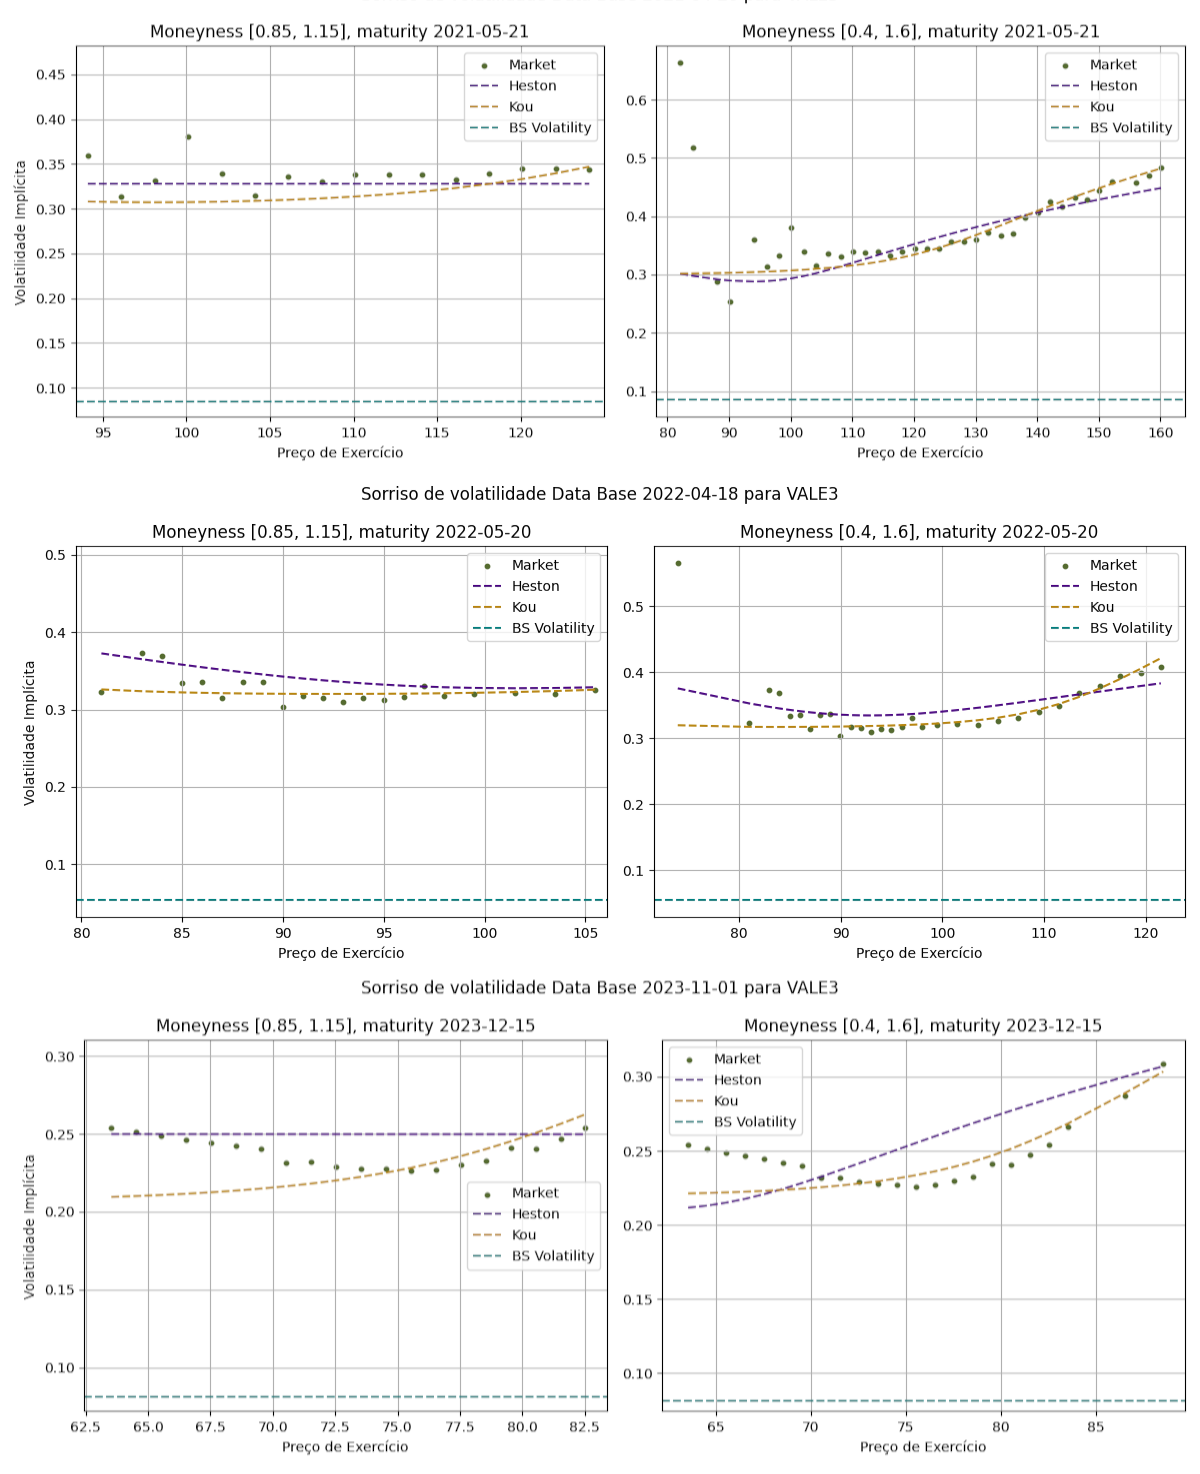
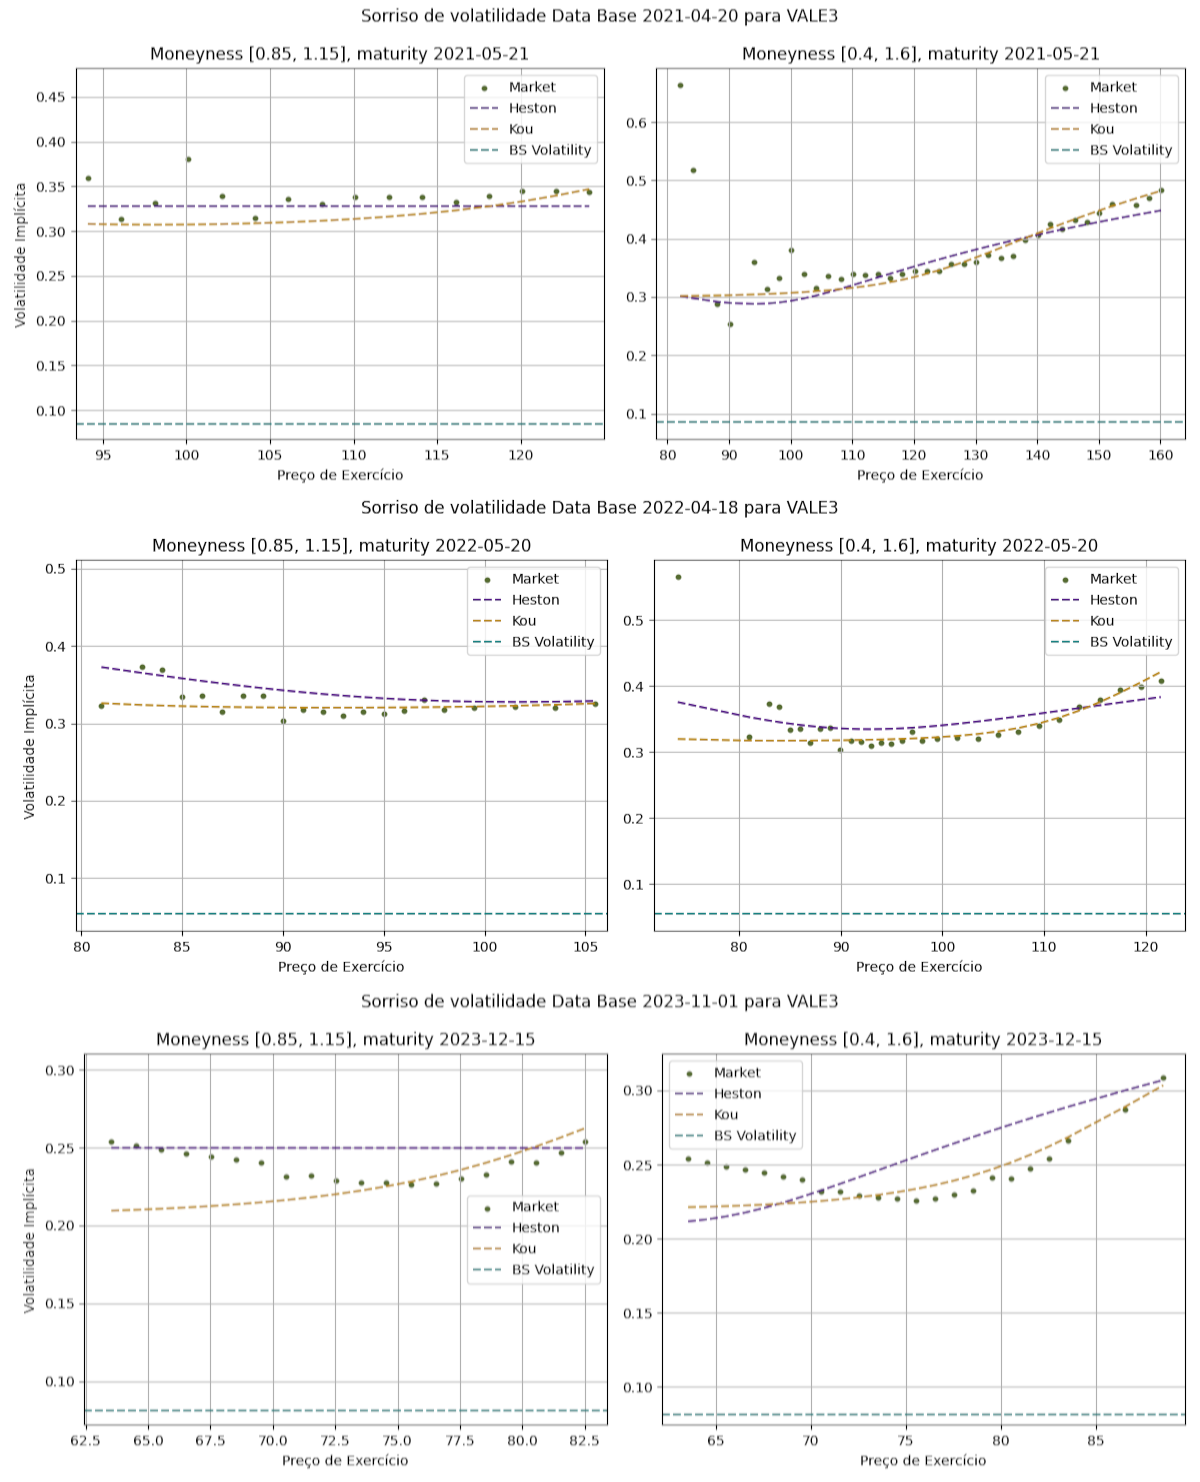
Add: ibovespa testing for slides

diff --git a/models/stylized_facts.py b/models/stylized_facts.py
@@ -14,7 +14,12 @@ from kou_jump_diffusion import kou_option_price, kou_process
 from calibration import estimate_v0
 from utils import OptionType, ewma_volatility, get_option_data, get_asset_prices, get_selic, load_params, nworkdays, estimate_sigma_hist, OptionStyle
 from imp_vol import vol_surface
-from datetime import datetime
+from datetime import datetime, date
+
+import matplotlib.ticker as mticker
+from matplotlib.gridspec import GridSpec
+from scipy import stats
+import yfinance as yf
 
 def plot_returns(flat_returns: np.array, bins: int = 100) -> None:
     """
@@ -457,9 +462,178 @@ def test_asset_prices():
     asset_ticker = 'PETR4'
     for database in ['2021-04-20', '2023-11-01', '2025-01-30']:
         plot_asset_prices(asset_ticker, database, _ndays=30)
-    
+
+
+def test_ibovespa():
+    ticker = yf.Ticker("^BVSP")
+    df = ticker.history(period="1y")
+
+    log_returns = np.log(df["Close"] / df["Close"].shift(1)).dropna()
+
+    mu, sigma = log_returns.mean(), log_returns.std()
+    skew = stats.skew(log_returns)
+    kurt = stats.kurtosis(log_returns, fisher=False)
+    _, pvalue = stats.jarque_bera(log_returns)
+
+    x = np.linspace(log_returns.min(), log_returns.max(), 400)
+    gaussian = stats.norm.pdf(x, mu, sigma)
+
+    # --- layout ---
+    fig = plt.figure(figsize=(10, 6), facecolor="white")
+    gs = GridSpec(1, 1, figure=fig)
+    ax = fig.add_subplot(gs[0])
+    ax.set_facecolor("white")
+
+    # histogram
+    n, bins, patches = ax.hist(
+        log_returns,
+        bins=100,
+        density=True,
+        color="#213d5f",
+        alpha=0.65,
+        edgecolor="white",
+        linewidth=0.5,
+        zorder=2,
+        label="Log-retornos IBOVESPA",
+    )
+
+    # gaussian fit
+    ax.plot(x, gaussian, color="#c0392b", linewidth=2.2, zorder=3, label=f"Normal $\\mathcal{{N}}$({mu:.4f}, {sigma:.4f}²)")
+
+    # KDE
+    kde = stats.gaussian_kde(log_returns)
+    ax.plot(x, kde(x), color="#e67e22", linewidth=1.6, linestyle="--", zorder=4, label="KDE empírica")
+
+    # zero line
+    ax.axvline(0, color="#555555", linewidth=0.8, alpha=0.4, linestyle=":", zorder=1)
+
+    # stats box
+    stats_text = (
+        f"$\\mu$ = {mu:.5f}\n"
+        f"$\\sigma$ = {sigma:.5f}\n"
+        f"Assimetria = {skew:.3f}\n"
+        f"Curtose = {kurt:.3f}\n"
+    )
+    ax.text(
+        0.975, 0.96,
+        stats_text,
+        transform=ax.transAxes,
+        ha="right", va="top",
+        fontsize=9,
+        color="#222222",
+        linespacing=1.7,
+        bbox=dict(boxstyle="round,pad=0.5", facecolor="white", edgecolor="#4c72b0", alpha=0.9),
+    )
+
+    # labels & title
+    ax.set_title("Distribuição dos Log-Retornos Diários — IBOVESPA (1 ano)", color="#111111", fontsize=13, pad=14)
+    ax.set_xlabel("Log-retorno", color="#333333", fontsize=11)
+    ax.set_ylabel("Densidade", color="#333333", fontsize=11)
+
+    ax.grid(axis="y", color="#dddddd", linewidth=0.7, linestyle="-", zorder=0)
+    ax.grid(axis="x", color="#eeeeee", linewidth=0.5, linestyle="-", zorder=0)
+    ax.set_axisbelow(True)
+
+    ax.tick_params(colors="#555555", labelsize=9)
+    for spine in ax.spines.values():
+        spine.set_edgecolor("#cccccc")
+
+    ax.xaxis.set_major_formatter(mticker.FuncFormatter(lambda v, _: f"{v:.2%}"))
+
+    leg = ax.legend(frameon=True, framealpha=0.9, facecolor="white", edgecolor="#4c72b0", labelcolor="#111111", fontsize=9)
+
+    plt.tight_layout()
+    plt.show()
+
+def plot_ibov_smile():
+    # EWZ: iShares MSCI Brazil ETF — proxy do Ibovespa com opções líquidas na NYSE
+    ticker = yf.Ticker("EWZ")
+    spot = ticker.history(period="1d")["Close"].iloc[-1]
+
+    expirations = ticker.options
+    if not expirations:
+        raise ValueError("Sem dados de opções disponíveis para EWZ")
+
+    def _filter(df, otm_mask):
+        df = df[df["ask"] > 0].copy()
+        df = df[df["impliedVolatility"] > 0]
+        df = df[df["volume"] >= 2]
+        df = df[(df["ask"] - df["bid"]) / df["ask"] <= 1.0]
+        df = df[otm_mask(df)]
+        df["moneyness"] = np.log(df["strike"] / spot)
+        return df
+
+    # seleciona o vencimento com maior volume total
+    best_exp, best_vol = None, -1
+    for exp in expirations:
+        chain = ticker.option_chain(exp)
+        vol = chain.calls["volume"].fillna(0).sum() + chain.puts["volume"].fillna(0).sum()
+        if vol > best_vol:
+            best_vol, best_exp = vol, exp
+
+    chain = ticker.option_chain(best_exp)
+    puts  = _filter(chain.puts,  lambda d: d["strike"] < spot)
+    calls = _filter(chain.calls, lambda d: d["strike"] > spot)
+
+    smile = pd.concat([
+        puts[["moneyness", "impliedVolatility"]].rename(columns={"impliedVolatility": "iv"}),
+        calls[["moneyness", "impliedVolatility"]].rename(columns={"impliedVolatility": "iv"}),
+    ]).sort_values("moneyness").dropna()
+
+    smile = smile[(smile["moneyness"] >= -0.35) & (smile["moneyness"] <= 0.35)]
+
+    if len(smile) < 4:
+        raise ValueError(f"Pontos insuficientes para o vencimento {best_exp} após filtros.")
+
+    dte = (pd.to_datetime(best_exp).date() - date.today()).days
+
+    fig = plt.figure(figsize=(10, 6), facecolor="white")
+    ax = fig.add_subplot(GridSpec(1, 1, figure=fig)[0])
+    ax.set_facecolor("white")
+
+    # pontos brutos — referência visual
+    ax.scatter(smile["moneyness"], smile["iv"],
+               s=30, color="#213d5f", alpha=0.45, zorder=3, label="IV observada")
+
+    # ajuste polinomial grau 2 — parábola sem ondulações
+    coeffs = np.polyfit(smile["moneyness"], smile["iv"], deg=2)
+    x_dense = np.linspace(smile["moneyness"].min(), smile["moneyness"].max(), 300)
+    ax.plot(x_dense, np.polyval(coeffs, x_dense),
+            linewidth=2.4, color="#213d5f", linestyle="--",
+            label="Ajuste polinomial (grau 2)", zorder=4)
+
+    ax.axvline(0, color="#888888", linewidth=1.0, alpha=0.5, linestyle="--", zorder=2)
+
+    ymin, ymax = ax.get_ylim()
+    ax.text(0.002, ymin + (ymax - ymin) * 0.02,
+            "ATM", fontsize=8, color="#888888", va="bottom", zorder=5)
+
+    ax.grid(axis="y", color="#dddddd", linewidth=0.7, linestyle="-", zorder=0)
+    ax.grid(axis="x", color="#eeeeee", linewidth=0.5, linestyle="-", zorder=0)
+    ax.set_axisbelow(True)
+
+    ax.set_title(f"Sorriso de Volatilidade EWZ / Ibovespa - Venc. {best_exp} ", color="#111111", fontsize=13, pad=14)
+    ax.set_xlabel("Log-moneyness  $\\ln(K/S)$", color="#333333", fontsize=11)
+    ax.set_ylabel("Volatilidade Implícita", color="#333333", fontsize=11)
+
+    ax.yaxis.set_major_formatter(mticker.FuncFormatter(lambda v, _: f"{v:.0%}"))
+    ax.xaxis.set_major_formatter(mticker.FuncFormatter(lambda v, _: f"{v:.1%}"))
+    ax.set_xlim(-0.37, 0.37)
+
+    ax.tick_params(colors="#555555", labelsize=9)
+    for spine in ax.spines.values():
+        spine.set_edgecolor("#cccccc")
+
+    ax.legend(frameon=True, framealpha=0.9, facecolor="white",
+              edgecolor="#4c72b0", labelcolor="#111111", fontsize=9)
+
+    plt.tight_layout()
+    plt.show()
+
 if __name__ == "__main__":
-    test_returns()
+    # test_ibovespa()
+    plot_ibov_smile()
+    # test_returns()
     # save_returns_metrics()
     # test_vol()
     # test_smile()

diff --git a/models/calibration.py b/models/calibration.py
@@ -345,13 +345,13 @@ if __name__ == "__main__":
     # database = '2020-10-16'
     # ticker = "PETR4"
     # ticker = "BOVA11"
-    results_to_csv()
+    # results_to_csv()
     # parameters_to_csv()
     # data = get_option_data(ticker, '2020-05-15', '2020-05-22', moneyness_divergence=0.6)
     # print(validate_model_imp_vol('PETR4', '2023-11-01', model='kou', moneyness_spread=0.6))
     # print(data)
     # print(len(data))
-    raise Exception
+    # raise Exception
 
     # get_option_data('PETR4', '2020-07-07', '2020-07-13', moneyness_divergence=0.7)
     for database in ['2020-07-13', '2021-04-20', '2022-04-18', '2023-11-01', '2025-01-30', '2025-06-10']:
@@ -362,13 +362,13 @@ if __name__ == "__main__":
             for ticker in ['PETR4','VALE3']:
             # for ticker in ['BOVA11']:
                 # _ndays = get_min_days(ticker, database, 0.15)
-                # data = get_option_data(ticker, nworkdays(database, -5), database, moneyness_divergence=moneyness_spread)
-                # print(database, ticker, len(data), moneyness_spread)
+                data = get_option_data(ticker, nworkdays(database, -5), database, moneyness_divergence=moneyness_spread)
+                print(f'{database}, {ticker}, {moneyness_spread}, {len(data)}, {data["TradeQty"].sum()}, {data["TradeAmount"].sum()}')
                 # validate_black_scholes_model_hist_vol(ticker, database, _ndays=5)
                 # validate_black_scholes_model_imp_vol(ticker, database, _ndays=5)
                 # measure(lambda: calibrate_heston_model(ticker, database, _ndays=5, moneyness_spread=moneyness_spread))
                 # validate_heston_model(ticker, database, _ndays=5, moneyness_spread=moneyness_spread)
-                measure(lambda: calibrate_kou_model(ticker, database, _ndays=5, moneyness_spread=moneyness_spread))
+                # measure(lambda: calibrate_kou_model(ticker, database, _ndays=5, moneyness_spread=moneyness_spread))
                 # validate_kou_model(ticker, database, _ndays=5)
             
                 # validate_model_imp_vol(ticker, '2020-07-13', model='kou')
